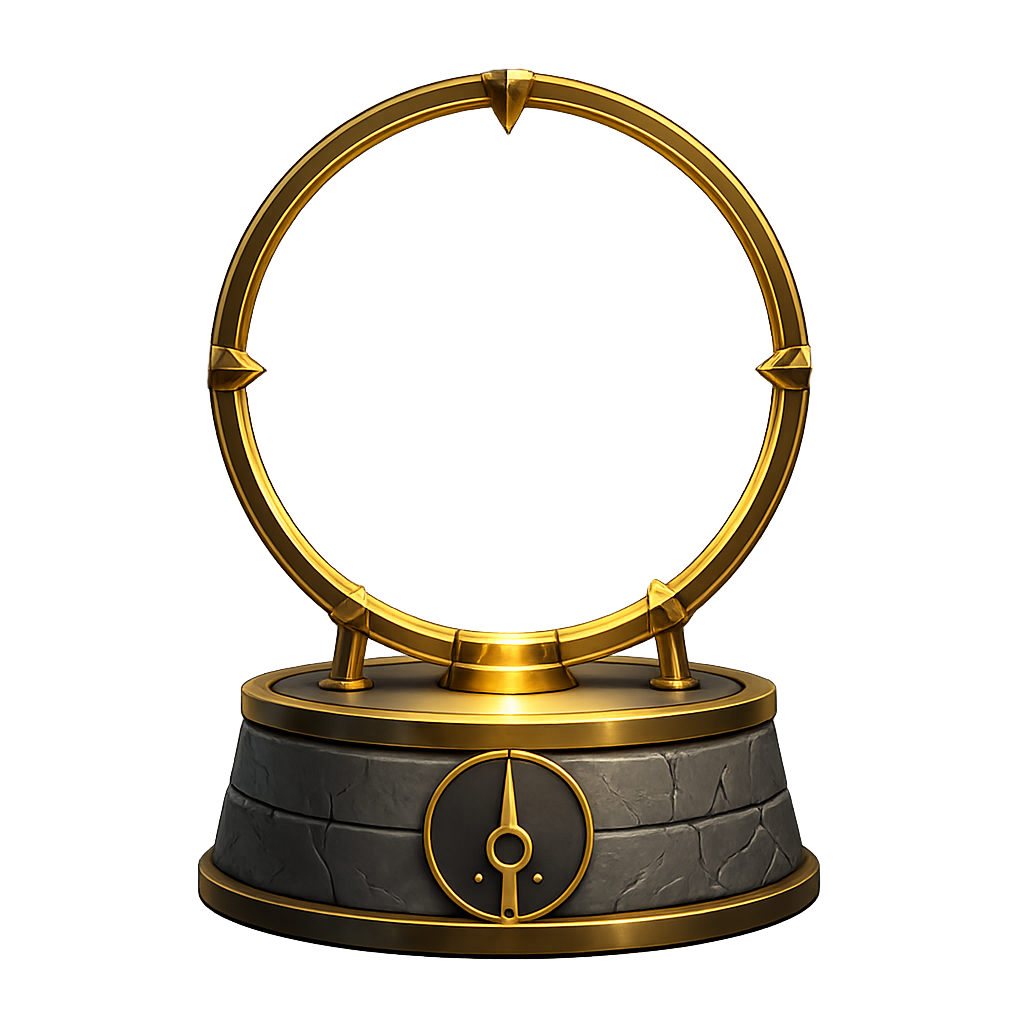
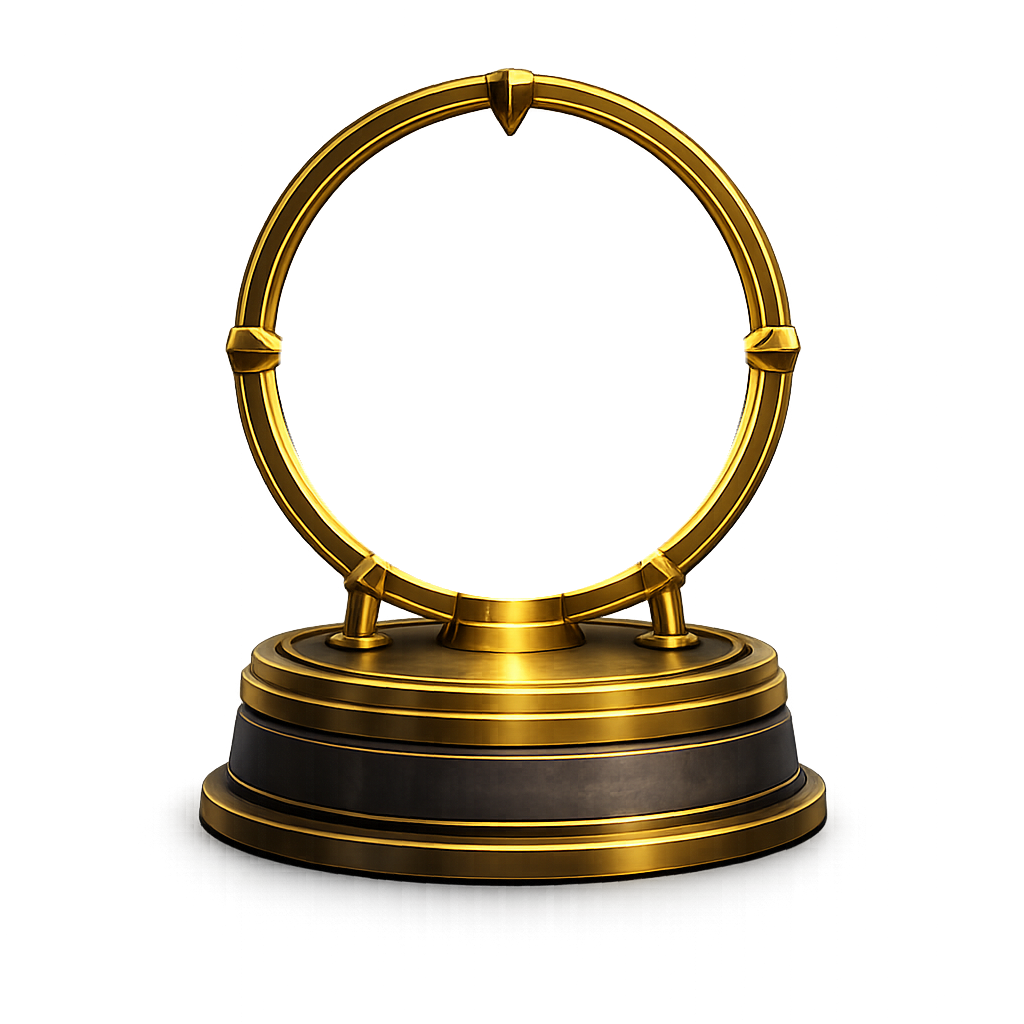
Add files via upload

Changed region(s): [[0.1562, 0.0625, 0.8125, 0.9375]]

diff --git a/src/app/pages/EarthLive.jsx b/src/app/pages/EarthLive.jsx
@@ -153,28 +153,6 @@ export default function EarthLive() {
           </>
         )}
 
-        {/* THE FIELD */}
-        {orgs.length > 0 && (
-          <>
-            <K>The organisations in the work</K>
-            <div style={{ display: 'flex', gap: '10px', flexWrap: 'wrap' }}>
-              {orgs.map((o, i) => (
-                <Link key={i} to={o.slug ? `/org/${o.slug}` : '#'}
-                  style={{ display: 'flex', gap: '9px', alignItems: 'center', textDecoration: 'none',
-                    border: '1px solid rgba(242,196,90,0.3)', borderRadius: '24px',
-                    padding: '7px 14px 7px 8px', ...body, fontSize: '14.5px', color: CREAM_80 }}>
-                  {o.image_url
-                    ? <img src={o.image_url} alt="" style={{ width: '26px', height: '26px', borderRadius: '50%', objectFit: 'cover' }} />
-                    : <span style={{ width: '26px', height: '26px', borderRadius: '50%', background: 'rgba(242,196,90,0.16)',
-                        display: 'flex', alignItems: 'center', justifyContent: 'center', ...sc, fontSize: '13px', color: GOLD_T }}>
-                        {(o.name || '?')[0]}
-                      </span>}
-                  {o.name}
-                </Link>
-              ))}
-            </div>
-          </>
-        )}
 
         {challenges.length > 0 && (
           <>
@@ -193,6 +171,28 @@ export default function EarthLive() {
                     <b style={{ ...serif, color: CREAM, fontSize: '17px', letterSpacing: 0, fontWeight: 300 }}>{c.people}</b> in
                     {' · '}<b style={{ ...serif, color: CREAM, fontSize: '17px', letterSpacing: 0, fontWeight: 300 }}>{c.checkins}</b> sparks
                   </div>
+                </Link>
+              ))}
+            </div>
+          </>
+        )}
+
+        {orgs.length > 0 && (
+          <>
+            <K>Participating organisations</K>
+            <div style={{ display: 'flex', gap: '10px', flexWrap: 'wrap' }}>
+              {orgs.map((o, i) => (
+                <Link key={i} to={o.slug ? `/org/${o.slug}` : '#'}
+                  style={{ display: 'flex', gap: '9px', alignItems: 'center', textDecoration: 'none',
+                    border: '1px solid rgba(242,196,90,0.3)', borderRadius: '24px',
+                    padding: '7px 14px 7px 8px', ...body, fontSize: '14.5px', color: CREAM_80 }}>
+                  {o.image_url
+                    ? <img src={o.image_url} alt="" style={{ width: '26px', height: '26px', borderRadius: '50%', objectFit: 'cover' }} />
+                    : <span style={{ width: '26px', height: '26px', borderRadius: '50%', background: 'rgba(242,196,90,0.16)',
+                        display: 'flex', alignItems: 'center', justifyContent: 'center', ...sc, fontSize: '13px', color: GOLD_T }}>
+                        {(o.name || '?')[0]}
+                      </span>}
+                  {o.name}
                 </Link>
               ))}
             </div>
@@ -219,12 +219,21 @@ export default function EarthLive() {
 
         {/* CTA */}
         <div style={{ textAlign: 'center', marginTop: '38px' }}>
-          <Link to={`/stretch/c/${ROOT_SLUG}`}
-            style={{ display: 'inline-block', ...sc, fontSize: '14px', letterSpacing: '0.14em',
-              textTransform: 'uppercase', color: '#1a1320', background: AMBER,
-              borderRadius: '28px', padding: '14px 32px', textDecoration: 'none' }}>
-            Take one on →
-          </Link>
+          <div style={{ display: 'flex', gap: '14px', justifyContent: 'center', flexWrap: 'wrap' }}>
+            <Link to={`/stretch/c/${ROOT_SLUG}`}
+              style={{ display: 'inline-block', ...sc, fontSize: '14px', letterSpacing: '0.14em',
+                textTransform: 'uppercase', color: '#1a1320', background: AMBER,
+                borderRadius: '28px', padding: '14px 32px', textDecoration: 'none' }}>
+              See the challenge →
+            </Link>
+            <Link to={`/stretch/c/${ROOT_SLUG}?accept=1`}
+              style={{ display: 'inline-block', ...sc, fontSize: '14px', letterSpacing: '0.14em',
+                textTransform: 'uppercase', color: AMBER, background: 'transparent',
+                border: '1px solid rgba(242,196,90,0.55)',
+                borderRadius: '28px', padding: '13px 30px', textDecoration: 'none' }}>
+              Accept the challenge →
+            </Link>
+          </div>
           <p style={{ ...body, fontSize: '14px', color: CREAM_60, marginTop: '10px' }}>
             Watching is free. Joining takes a minute.
           </p>

diff --git a/src/app/components/mission-control/BeaconStrip.jsx b/src/app/components/mission-control/BeaconStrip.jsx
@@ -263,10 +263,8 @@ export default function BeaconStrip({ userId }) {
       <div className="bcn-bar" onClick={toggle} role="button" tabIndex={0}
         onKeyDown={(e) => { if (e.key === 'Enter' || e.key === ' ') { e.preventDefault(); toggle() } }}>
         <span className="bcn-mini" aria-hidden="true">
-          <span className="bcn-ml-cap" />
-          <span className="bcn-ml-glass"><span className="bcn-ml-light" /></span>
-          <span className="bcn-ml-base" />
-          <span className="bcn-ml-halo" />
+          <span className="bcn-mini-core" />
+          <img className="bcn-mini-img" src="/beacon/frame.png" alt="" />
         </span>
         <span className="bcn-title">The beacon</span>
         <span className="bcn-msg">{bandMsg}</span>
@@ -313,9 +311,19 @@ export default function BeaconStrip({ userId }) {
                 {(!feed || !(feed.events || []).length) && (
                   <p className="bcn-livetoday">The beacon is lit. Every check-in adds a spark.</p>
                 )}
+                {feed && (feed.field?.orgs || []).length > 0 && (
+                  <div className="bcn-orgs">
+                    <div className="bcn-orgs-k">Participating organisations</div>
+                    <div className="bcn-orgs-row">
+                      {(feed.field.orgs || []).slice(0, 6).map((o, i) => (
+                        <span className="bcn-org" key={i}>{o.name}</span>
+                      ))}
+                    </div>
+                  </div>
+                )}
                 <div className="bcn-live-cta">
-                  <button className="bcn-go" onClick={() => navigate(beacon.root_slug ? `/stretch/c/${beacon.root_slug}` : '/challenges/browse')}>Take one on &rarr;</button>
-                  <button className="bcn-record" onClick={() => navigate('/earth')}>see the whole fire &rarr;</button>
+                  <button className="bcn-go" onClick={() => navigate(beacon.root_slug ? `/stretch/c/${beacon.root_slug}` : '/challenges/browse')}>See the challenge &rarr;</button>
+                  <button className="bcn-go ghost" onClick={() => navigate(beacon.root_slug ? `/stretch/c/${beacon.root_slug}?accept=1` : '/challenges/browse')}>Accept the challenge &rarr;</button>
                 </div>
               </div>
             ) : (
@@ -407,17 +415,22 @@ export default function BeaconStrip({ userId }) {
                 })}
                 <div className="bcn-foot">
                   <button className="bcn-record" onClick={() => navigate('/earth/journey')}>your journey &rarr;</button>
-                  <button className="bcn-record" onClick={() => navigate('/earth')}>see the whole fire &rarr;</button>
+                  <button className="bcn-record" onClick={() => navigate('/earth')}>Earth Challenge live &rarr;</button>
                 </div>
               </>
             )}
           </div>
         </div>
+        <div className="bcn-grip in-panel" onPointerDown={onGripDown} onPointerMove={onGripMove} onPointerUp={onGripUp} onPointerCancel={onGripUp}>
+          <svg className="bcn-chev" viewBox="0 0 24 24" fill="none" stroke={A.bright} strokeWidth="2.2" strokeLinecap="round" strokeLinejoin="round"><path d="M6 9l6 6 6-6" /></svg>
+        </div>
       </div>
 
-      <div className="bcn-grip" onPointerDown={onGripDown} onPointerMove={onGripMove} onPointerUp={onGripUp} onPointerCancel={onGripUp}>
-        <svg className="bcn-chev" viewBox="0 0 24 24" fill="none" stroke={A.bright} strokeWidth="2.2" strokeLinecap="round" strokeLinejoin="round"><path d="M6 9l6 6 6-6" /></svg>
-      </div>
+      {!open && (
+        <div className="bcn-grip" onPointerDown={onGripDown} onPointerMove={onGripMove} onPointerUp={onGripUp} onPointerCancel={onGripUp}>
+          <svg className="bcn-chev" viewBox="0 0 24 24" fill="none" stroke={A.bright} strokeWidth="2.2" strokeLinecap="round" strokeLinejoin="round"><path d="M6 9l6 6 6-6" /></svg>
+        </div>
+      )}
 
       {showMeaning && (
         <div className="bcn-veil" onClick={(e) => { if (e.target === e.currentTarget) setShowMeaning(false) }}>
@@ -438,14 +451,11 @@ export default function BeaconStrip({ userId }) {
 const CSS = `
 .bcn-wrap{position:relative;z-index:60;background:radial-gradient(140% 240% at 22% 0%,#1d1626,${A.night} 72%);color:#FAF1DE;border-bottom:1px solid ${A.amber};user-select:none}
 .bcn-bar{position:relative;z-index:3;display:flex;align-items:center;gap:14px;padding:0 20px;height:56px;cursor:pointer}
-.bcn-mini{position:relative;width:18px;height:32px;flex:none;display:block;transform-origin:left center;transition:opacity .4s,transform .4s cubic-bezier(.3,.7,.2,1)}
-.bcn-wrap.open .bcn-mini{opacity:0;transform:scale(2.4) translateX(6px);pointer-events:none}
-.bcn-ml-cap{position:absolute;top:0;left:50%;transform:translateX(-50%);width:14px;height:4px;background:linear-gradient(180deg,#3a2c1a,#241a10);clip-path:polygon(14% 0,86% 0,100% 100%,0 100%);border-radius:2px 2px 0 0}
-.bcn-ml-glass{position:absolute;top:4px;left:50%;transform:translateX(-50%);width:16px;height:24px;border:1.2px solid ${A.amber};border-radius:3px;overflow:hidden;background:rgba(20,14,9,.6)}
-.bcn-ml-light{position:absolute;left:0;right:0;bottom:0;height:62%;background:linear-gradient(180deg,${A.glow},${A.bright} 45%,${A.amber});box-shadow:0 0 11px rgba(255,221,128,.7);animation:bcnbeat 2.6s ease-in-out infinite}
-@keyframes bcnbeat{0%,100%{box-shadow:0 0 8px rgba(255,221,128,.55)}50%{box-shadow:0 0 15px rgba(255,221,128,.85)}}
-.bcn-ml-base{position:absolute;bottom:0;left:50%;transform:translateX(-50%);width:12px;height:3px;background:linear-gradient(180deg,#3a2c1a,#241a10);clip-path:polygon(0 0,100% 0,86% 100%,14% 100%);border-radius:0 0 2px 2px}
-.bcn-ml-halo{position:absolute;left:50%;top:55%;width:50px;height:50px;transform:translate(-50%,-50%);border-radius:50%;background:radial-gradient(circle,rgba(255,221,128,.4),rgba(255,221,128,0) 64%);pointer-events:none}
+.bcn-mini{position:relative;width:34px;height:38px;flex:none;display:flex;align-items:center;justify-content:center;transform-origin:left center;transition:opacity .4s,transform .4s cubic-bezier(.3,.7,.2,1)}
+.bcn-wrap.open .bcn-mini{opacity:0;transform:scale(1.8) translateX(6px);pointer-events:none}
+.bcn-mini-img{width:34px;height:34px;object-fit:contain;position:relative;z-index:2}
+.bcn-mini-core{position:absolute;left:50%;top:42%;width:16px;height:16px;transform:translate(-50%,-50%);border-radius:50%;background:radial-gradient(circle,#fff 0%,${A.glow} 34%,rgba(242,196,90,.5) 62%,rgba(242,196,90,0) 78%);box-shadow:0 0 12px rgba(255,221,128,.8);animation:bcnbeat 2.6s ease-in-out infinite;z-index:1}
+@keyframes bcnbeat{0%,100%{opacity:.7}50%{opacity:1}}
 .bcn-title{font-family:'Cormorant SC',Georgia,serif;letter-spacing:.2em;text-transform:uppercase;font-size:14px}
 .bcn-msg{font-family:'Cormorant Garamond',Georgia,serif;font-size:18px;color:${A.glow};min-width:0;white-space:nowrap;overflow:hidden;text-overflow:ellipsis}
 .bcn-spacer{flex:1}
@@ -501,8 +511,13 @@ const CSS = `
 .bcn-ev-who.hot{color:${A.bright}}
 .bcn-ev-what{font-family:'Lora',Georgia,serif;color:rgba(250,241,222,.82);min-width:0}
 .bcn-ev-when{margin-left:auto;font-family:'Cormorant SC',Georgia,serif;font-size:13px;letter-spacing:.06em;color:rgba(250,241,222,.55);white-space:nowrap}
-.bcn-live-cta{display:flex;align-items:center;gap:18px;flex-wrap:wrap;padding-top:14px}
+.bcn-orgs{padding-top:12px}
+.bcn-orgs-k{font-family:'Cormorant SC',Georgia,serif;font-size:13px;letter-spacing:.16em;text-transform:uppercase;color:rgba(250,241,222,.55);margin-bottom:8px}
+.bcn-orgs-row{display:flex;gap:8px;flex-wrap:wrap}
+.bcn-org{font-family:'Lora',Georgia,serif;font-size:13px;color:rgba(250,241,222,.85);border:1px solid rgba(242,196,90,.3);border-radius:18px;padding:5px 12px}
+.bcn-live-cta{display:flex;align-items:center;gap:12px;flex-wrap:wrap;padding-top:14px}
 .bcn-go{font-family:'Cormorant SC',Georgia,serif;letter-spacing:.14em;text-transform:uppercase;font-size:13px;color:#1a1320;background:${A.bright};border:none;border-radius:24px;padding:12px 22px;cursor:pointer}
+.bcn-go.ghost{background:transparent;color:${A.bright};border:1px solid rgba(242,196,90,.55)}
 .bcn-foot{display:flex;gap:18px;flex-wrap:wrap;margin-top:12px}
 .bcn-record{font-family:'Cormorant SC',Georgia,serif;letter-spacing:.1em;text-transform:uppercase;font-size:13px;color:rgba(242,196,90,.85);background:none;border:none;border-bottom:1px solid rgba(242,196,90,.45);cursor:pointer;padding:0 0 1px}
 .bcn-push{display:flex;flex-wrap:wrap;align-items:center;gap:10px 14px;justify-content:space-between;background:rgba(242,196,90,.08);border:1px solid rgba(242,196,90,.3);border-radius:12px;padding:11px 14px;margin-bottom:14px}
@@ -512,6 +527,7 @@ const CSS = `
 .bcn-push-act button.ghost{background:transparent;color:rgba(242,196,90,.85);border:1px solid rgba(242,196,90,.45)}
 
 .bcn-grip{position:relative;z-index:4;height:30px;display:flex;align-items:center;justify-content:center;cursor:grab;touch-action:none}
+.bcn-grip.in-panel{height:34px;border-top:1px solid rgba(242,196,90,.15)}
 .bcn-grip:active{cursor:grabbing}
 .bcn-chev{width:20px;height:20px;transition:transform .35s}
 .bcn-wrap.open .bcn-chev{transform:rotate(180deg)}

diff --git a/src/app/pages/ChallengePage.jsx b/src/app/pages/ChallengePage.jsx
@@ -857,6 +857,21 @@ export function ChallengePage() {
   const partners     = Array.isArray(call.partners) ? call.partners : []
   const isFoundingRoot = !!foundingRootSlug && slug === foundingRootSlug
 
+  // arriving with ?accept=1 (from the strip or a shared link) opens the accept
+  // fork directly once the call is loaded and the person is signed in
+  useEffect(() => {
+    if (!call || !user) return
+    try {
+      const q = new URLSearchParams(window.location.search)
+      if (q.get('accept') === '1') {
+        if (isFoundingRoot) setShowDoors(true)
+        else setShowTakeItOn(true)
+        q.delete('accept')
+        window.history.replaceState({}, '', window.location.pathname + (q.toString() ? `?${q}` : ''))
+      }
+    } catch (_) { /* the button on the page still works */ }
+  }, [call, user, isFoundingRoot])
+
   return (
     <div style={{ background: tokens.bg, minHeight: '100dvh' }}>
       <Nav />

diff --git a/src/app/components/challenge/BeaconFire.jsx b/src/app/components/challenge/BeaconFire.jsx
@@ -20,9 +20,9 @@
 import { useEffect, useRef, useImperativeHandle, forwardRef } from 'react'
 
 // Glass aperture of the frame render, measured per row in its 1024 space.
-const GLASS = {"y0":132,"rows":[[401,618],[400,620],[398,622],[396,624],[395,626],[393,628],[391,630],[390,631],[388,633],[386,634],[384,636],[382,638],[381,640],[379,641],[377,643],[376,644],[374,646],[372,647],[371,649],[369,650],[368,652],[367,653],[365,655],[364,656],[362,657],[361,658],[360,660],[358,661],[357,662],[356,664],[354,665],[353,666],[352,668],[350,669],[349,670],[348,671],[347,673],[346,674],[344,675],[343,676],[342,677],[341,678],[340,679],[339,681],[337,682],[336,683],[335,684],[334,685],[333,686],[332,687],[331,688],[330,689],[329,690],[328,691],[327,692],[326,693],[325,694],[324,695],[323,696],[323,697],[322,698],[321,699],[320,700],[319,701],[318,701],[317,702],[316,703],[315,704],[315,705],[314,706],[313,707],[312,708],[311,708],[310,709],[310,710],[309,711],[308,711],[307,712],[306,713],[305,714],[305,715],[304,715],[303,716],[303,717],[302,718],[301,718],[301,719],[300,720],[299,720],[299,721],[298,722],[297,723],[297,723],[296,724],[295,724],[295,725],[294,726],[293,726],[293,727],[292,727],[291,728],[291,729],[290,729],[289,730],[289,730],[288,731],[288,732],[287,732],[286,733],[286,733],[285,734],[285,735],[284,735],[284,736],[283,736],[283,736],[282,737],[282,738],[281,738],[281,739],[280,739],[280,740],[279,740],[278,741],[278,741],[278,742],[277,742],[277,743],[276,743],[276,744],[275,744],[275,744],[274,745],[274,745],[273,746],[273,746],[273,747],[272,747],[272,747],[271,748],[271,748],[270,748],[270,749],[270,749],[269,750],[269,750],[269,750],[268,751],[268,751],[267,751],[267,752],[267,752],[266,752],[266,753],[266,753],[265,754],[265,754],[265,754],[264,755],[264,755],[263,755],[263,756],[263,756],[263,756],[262,756],[262,757],[262,757],[261,757],[261,758],[261,758],[260,758],[260,758],[260,759],[260,759],[260,759],[260,759],[259,760],[259,760],[259,760],[258,760],[258,760],[258,761],[258,761],[258,761],[257,761],[257,762],[257,762],[257,762],[256,762],[256,763],[256,763],[256,763],[255,763],[255,764],[255,764],[255,764],[255,764],[254,764],[254,764],[254,764],[254,765],[254,765],[254,765],[253,765],[253,765],[253,765],[253,765],[252,765],[252,766],[252,766],[252,766],[252,766],[252,766],[252,766],[252,766],[252,766],[252,767],[252,767],[252,767],[252,767],[254,765],[254,765],[254,767],[255,766],[255,765],[256,764],[257,763],[258,761],[260,761],[261,759],[262,758],[264,754],[265,753],[266,752],[268,751],[269,750],[272,749],[270,751],[269,754],[267,755],[265,757],[264,758],[262,759],[267,759],[260,762],[258,763],[263,764],[262,765],[254,767],[253,768],[252,769],[250,771],[249,772],[246,773],[245,775],[252,767],[252,766],[252,766],[252,766],[252,766],[252,766],[253,766],[253,766],[253,765],[253,765],[253,765],[253,765],[253,765],[254,765],[254,765],[254,764],[254,764],[254,764],[254,764],[254,764],[255,764],[255,764],[255,763],[255,763],[255,763],[255,763],[255,763],[256,763],[256,762],[256,762],[256,762],[256,762],[257,762],[257,761],[257,761],[257,761],[257,761],[258,761],[258,760],[258,760],[258,760],[258,760],[259,759],[259,759],[259,759],[259,759],[260,759],[260,758],[260,758],[260,758],[261,758],[261,757],[261,757],[262,757],[262,757],[262,756],[262,756],[263,756],[263,755],[263,755],[264,755],[264,754],[264,754],[265,754],[265,754],[265,753],[266,753],[266,753],[266,752],[267,752],[267,752],[267,751],[268,751],[268,750],[268,750],[269,750],[269,749],[270,749],[270,749],[270,748],[271,748],[271,747],[272,747],[272,746],[272,746],[273,746],[273,745],[274,745],[274,744],[274,744],[277,743],[275,743],[276,743],[276,742],[277,742],[277,741],[278,741],[278,740],[279,740],[279,739],[280,739],[280,738],[281,738],[281,737],[282,736],[282,736],[283,735],[283,735],[284,734],[285,734],[285,733],[286,733],[286,732],[287,732],[285,731],[288,730],[286,730],[289,729],[290,729],[290,728],[291,727],[291,727],[292,726],[293,725],[293,725],[294,724],[294,724],[295,723],[296,722],[297,722],[297,721],[298,720],[298,721],[299,719],[300,718],[300,718],[301,717],[302,716],[302,716],[303,715],[304,714],[305,714],[303,713],[306,712],[307,711],[308,711],[308,710],[309,709],[310,708],[311,708],[310,707],[312,706],[313,705],[314,704],[315,703],[315,703],[316,702],[317,701],[318,700],[319,699],[320,698],[321,698],[322,697],[322,696],[323,695],[324,694],[325,693],[326,692],[327,691],[328,690],[329,689],[330,688],[331,687],[332,686],[333,685],[334,684],[335,683],[337,682],[338,681],[339,680],[340,679],[341,678],[343,677],[344,676],[345,675],[346,673],[347,672],[351,671],[350,669],[351,668],[352,667],[354,646],[355,644],[359,644],[361,643],[363,642],[365,642],[369,642],[371,641],[372,640],[372,640],[371,640],[373,640],[373,640],[373,640],[374,640],[375,638],[377,638],[379,641],[380,638],[382,636],[383,634],[388,632],[387,631],[389,629],[391,627],[393,625],[397,623],[399,621],[398,619],[401,617],[403,615],[405,610],[407,608]]}
+const GLASS = {"y0":136,"rows":[[491,534],[482,543],[475,550],[470,555],[465,560],[460,565],[456,569],[452,573],[449,576],[445,580],[442,583],[439,586],[436,589],[433,592],[431,594],[428,597],[425,600],[423,602],[421,604],[418,607],[416,609],[414,611],[412,613],[410,615],[408,617],[406,619],[404,621],[402,623],[400,625],[399,626],[397,628],[395,630],[393,632],[392,633],[390,635],[389,636],[387,638],[385,640],[384,641],[382,643],[381,644],[380,645],[378,647],[377,648],[375,650],[374,651],[373,652],[371,654],[370,655],[369,656],[368,657],[366,659],[365,660],[364,661],[363,662],[362,663],[360,665],[359,666],[358,667],[357,668],[356,669],[355,670],[354,671],[353,672],[352,673],[351,674],[350,675],[349,676],[348,677],[347,678],[346,679],[345,680],[344,681],[343,682],[342,683],[341,684],[340,685],[339,686],[338,687],[337,688],[337,688],[336,689],[335,690],[334,691],[333,692],[332,693],[332,693],[331,694],[330,695],[329,696],[329,696],[328,697],[327,698],[326,699],[326,699],[325,700],[324,701],[323,702],[323,702],[322,703],[321,704],[321,704],[320,705],[319,706],[319,706],[318,707],[317,708],[317,708],[316,709],[315,710],[315,710],[314,711],[314,711],[313,712],[312,713],[312,713],[311,714],[311,714],[310,715],[310,715],[309,716],[309,716],[308,717],[307,718],[307,718],[306,719],[306,719],[305,720],[305,720],[304,721],[304,721],[303,722],[303,722],[303,722],[302,723],[302,723],[301,724],[301,724],[300,725],[300,725],[299,726],[299,726],[299,726],[298,727],[298,727],[297,728],[297,728],[297,728],[296,729],[296,729],[295,730],[295,730],[295,730],[294,731],[294,731],[294,731],[293,732],[293,732],[293,732],[292,733],[292,733],[292,733],[291,734],[291,734],[291,734],[290,735],[290,735],[290,735],[290,735],[289,736],[289,736],[289,736],[289,736],[288,737],[288,737],[288,737],[288,737],[287,738],[287,738],[287,738],[287,738],[286,739],[286,739],[286,739],[286,739],[286,739],[285,740],[285,740],[285,740],[285,740],[285,740],[284,741],[284,741],[284,741],[284,741],[284,741],[284,741],[283,742],[283,742],[283,742],[283,742],[283,742],[283,742],[283,742],[283,742],[282,743],[282,743],[282,743],[282,743],[282,743],[282,743],[282,743],[282,743],[282,743],[282,743],[282,743],[281,744],[281,744],[281,744],[281,744],[281,744],[281,744],[281,744],[281,744],[281,744],[281,744],[281,744],[281,744],[281,744],[281,744],[281,744],[281,744],[281,744],[281,744],[281,744],[281,744],[281,744],[281,744],[281,744],[281,744],[281,744],[281,744],[281,744],[281,744],[281,744],[281,744],[282,743],[282,743],[282,743],[282,743],[282,743],[282,743],[282,743],[282,743],[282,743],[282,743],[282,743],[283,742],[283,742],[283,742],[283,742],[283,742],[283,742],[283,742],[283,742],[284,741],[284,741],[284,741],[284,741],[284,741],[284,741],[285,740],[285,740],[285,740],[285,740],[285,740],[286,739],[286,739],[286,739],[286,739],[286,739],[287,738],[287,738],[287,738],[287,738],[288,737],[288,737],[288,737],[288,737],[289,736],[289,736],[289,736],[289,736],[290,735],[290,735],[290,735],[290,735],[291,734],[291,734],[291,734],[292,733],[292,733],[292,733],[293,732],[293,732],[293,732],[294,731],[294,731],[294,731],[295,730],[295,730],[295,730],[296,729],[296,729],[297,728],[297,728],[297,728],[298,727],[298,727],[299,726],[299,726],[299,726],[300,725],[300,725],[301,724],[301,724],[302,723],[302,723],[303,722],[303,722],[303,722],[304,721],[304,721],[305,720],[305,720],[306,719],[306,719],[307,718],[307,718],[308,717],[309,716],[309,716],[310,715],[310,715],[311,714],[311,714],[312,713],[312,713],[313,712],[314,711],[314,711],[315,710],[315,710],[316,709],[317,708],[317,708],[318,707],[319,706],[319,706],[320,705],[321,704],[321,704],[322,703],[323,702],[323,702],[324,701],[325,700],[326,699],[326,699],[327,698],[328,697],[329,696],[329,696],[330,695],[331,694],[332,693],[332,693],[333,692],[334,691],[335,690],[336,689],[337,688],[337,688],[338,687],[339,686],[340,685],[341,684],[342,683],[343,682],[344,681],[345,680],[346,679],[347,678],[348,677],[349,676],[350,675],[351,674],[352,673],[353,672],[354,671],[355,670],[356,669],[357,668],[358,667],[359,666],[360,665],[362,663],[363,662],[364,661],[365,660],[366,659],[368,657],[369,656],[370,655],[371,654],[373,652],[374,651],[375,650],[377,648],[378,647],[380,645],[381,644],[382,643],[384,641],[385,640],[387,638],[389,636],[390,635],[392,633],[393,632],[395,630],[397,628],[399,626],[400,625],[402,623],[404,621],[406,619],[408,617],[410,615],[412,613],[414,611],[416,609],[418,607],[421,604],[423,602],[425,600],[428,597],[431,594],[433,592],[436,589],[439,586],[442,583],[445,580],[449,576],[452,573],[456,569],[460,565],[465,560],[470,555],[475,550],[482,543],[491,534]]}
 
-const CORE = { x: 512, y: 385 }
+const CORE = { x: 512, y: 366 }
 const ASSET = (n) => `/beacon/${n}.png`
 const SPRITE_NAMES = ['star-small', 'star-mid', 'star-glint', 'star-core', 'streak-long']
 